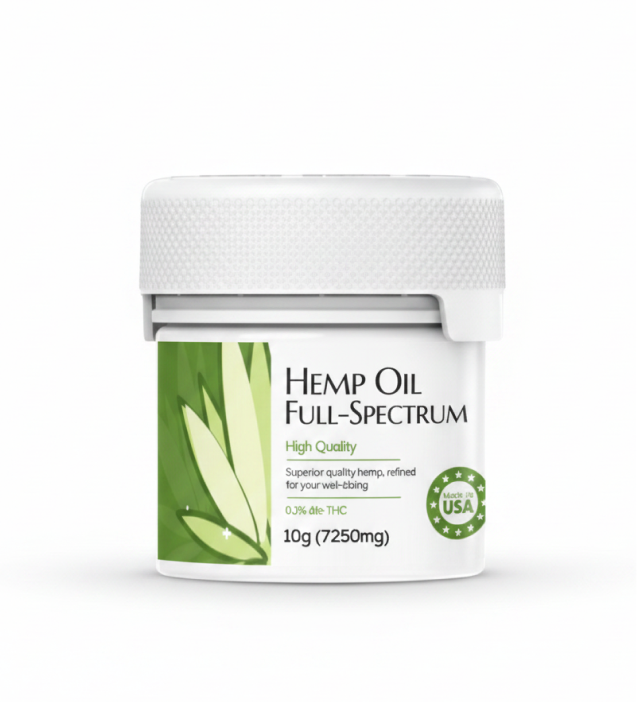
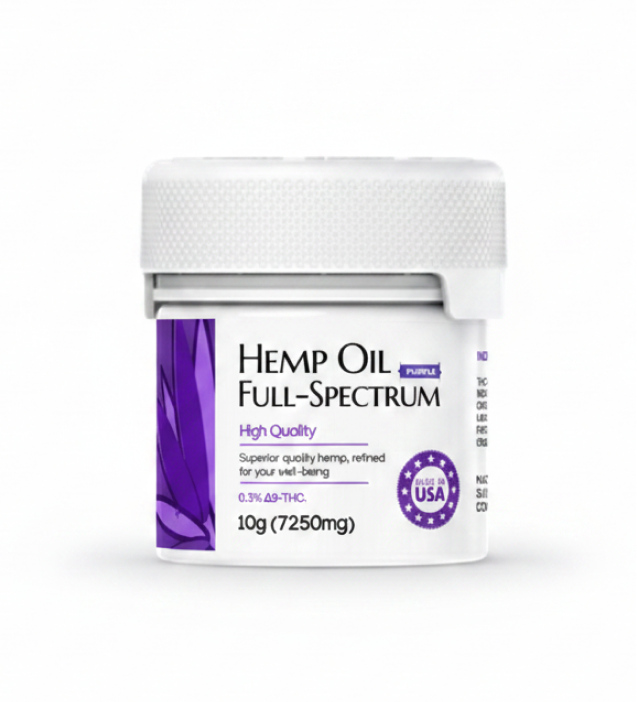
style: update 10g and 50g variant tags to purple and fix page structure

diff --git a/hemp-oil-full-spectrum-10g-7250mg.html b/hemp-oil-full-spectrum-10g-7250mg.html
@@ -1,4 +1,4 @@
-<!doctype html>
+<!doctype html>
 <html class="no-js" lang="zxx">
 
 <head>
@@ -312,13 +312,13 @@
             </div>
             <div class="product-thumb-slide vs-carousel" data-slide-show="4" data-md-slide-show="4" data-sm-slide-show="3" data-xs-slide-show="3" data-asnavfor=".product-big-img" data-vertical="false" data-sm-vertical="false">
               <div>
-                <div class="thumb variant-thumb" data-variant="10g"><img src="assets/img/products/hemp-oil-full-spectrum-10g-7250mg-large.png" alt="Product Image"><span class="variant-tag">10g</span></div>
+                <div class="thumb variant-thumb" data-variant="10g"><img src="assets/img/products/hemp-oil-full-spectrum-10g-7250mg-large.png" alt="Product Image"><span class="variant-tag purple">10g</span></div>
               </div>
               <div>
                 <div class="thumb variant-thumb" data-variant="20g"><img src="assets/img/products/hemp-oil-full-spectrum-20g-7250mg-large.png" alt="Product Image"><span class="variant-tag">20g</span></div>
               </div>
               <div>
-                <div class="thumb variant-thumb" data-variant="50g"><img src="assets/img/products/hemp-oil-full-spectrum-50g-7250mg-large.png" alt="Product Image"><span class="variant-tag">50g</span></div>
+                <div class="thumb variant-thumb" data-variant="50g"><img src="assets/img/products/hemp-oil-full-spectrum-50g-7250mg-large.png" alt="Product Image"><span class="variant-tag purple">50g</span></div>
               </div>
             </div>
           </div>
@@ -964,6 +964,9 @@
       text-transform: uppercase;
       line-height: 1;
     }
+    .variant-tag.purple {
+      background: #6a1b9a;
+    }
   </style>
   <script>
     document.addEventListener('DOMContentLoaded', function() {
@@ -1016,8 +1019,3 @@
 </body>
 
 </html>
-
-
-
-
-
